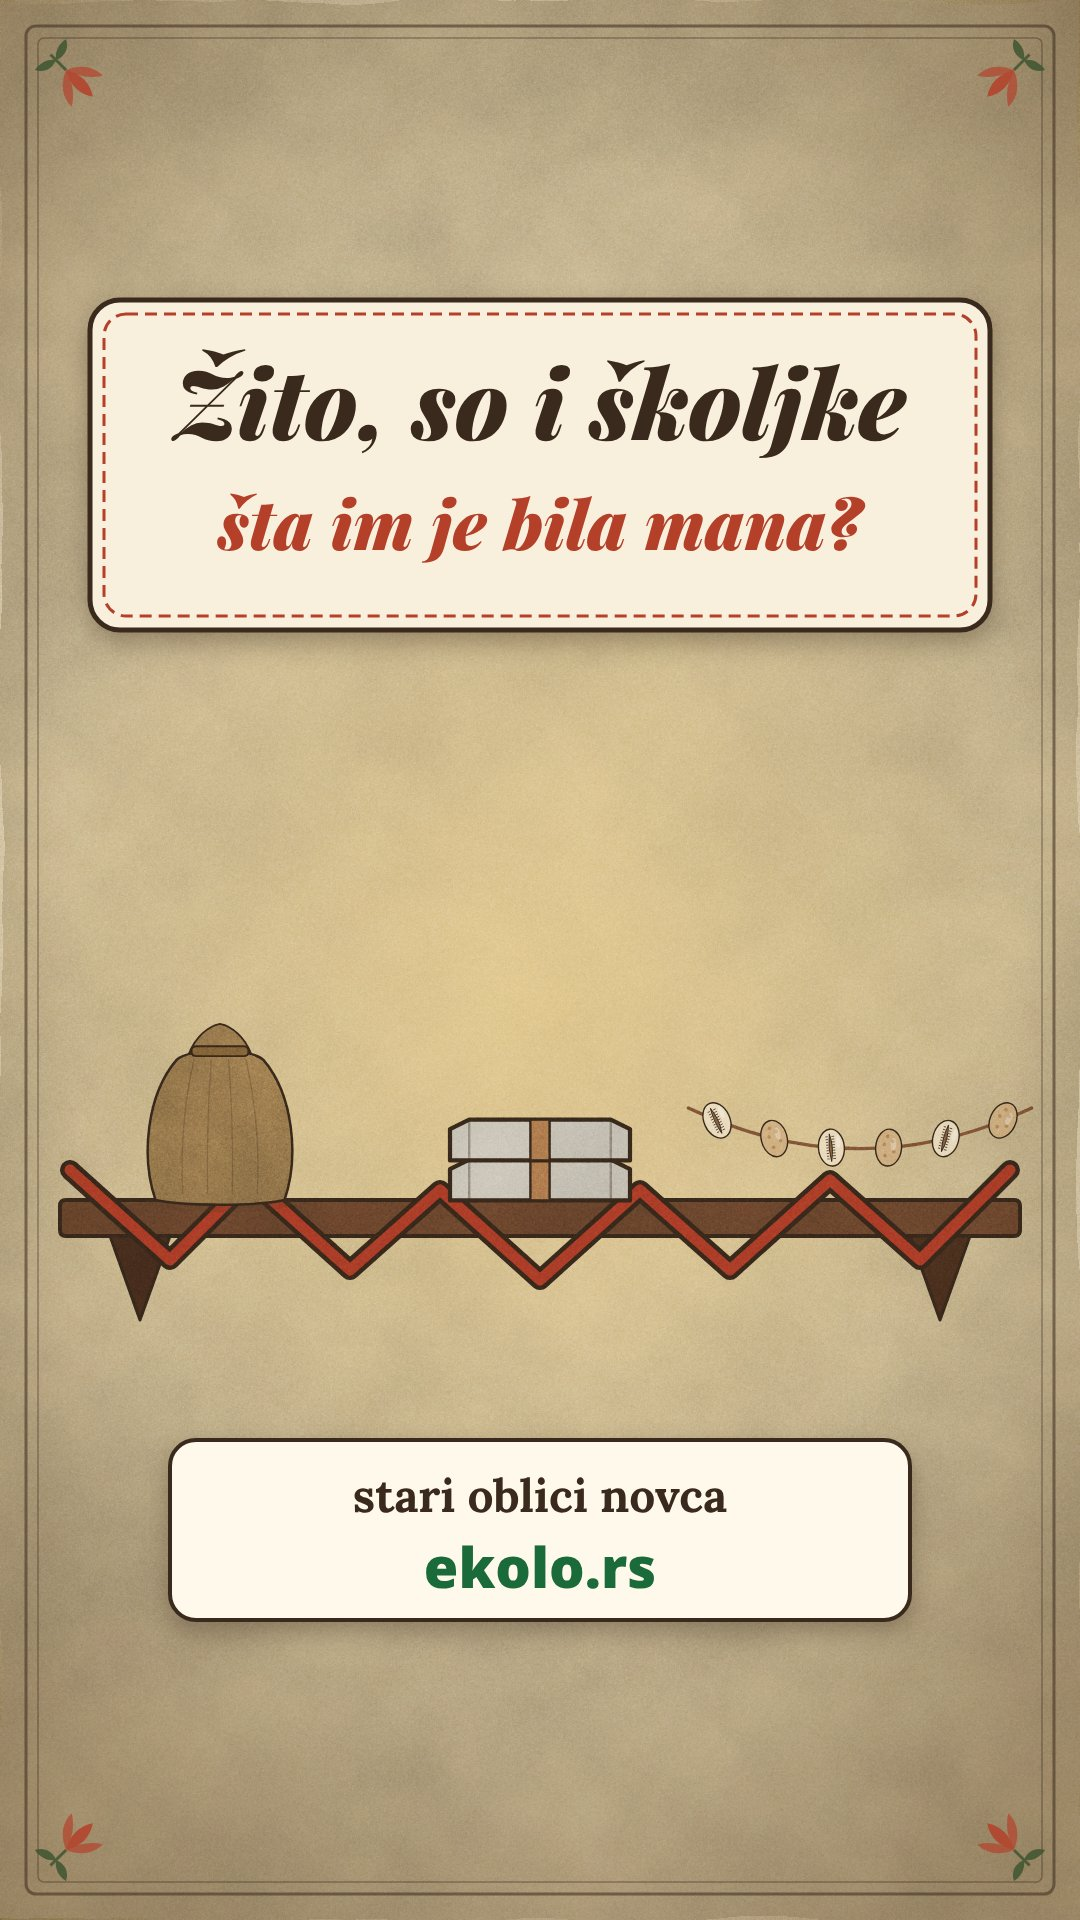
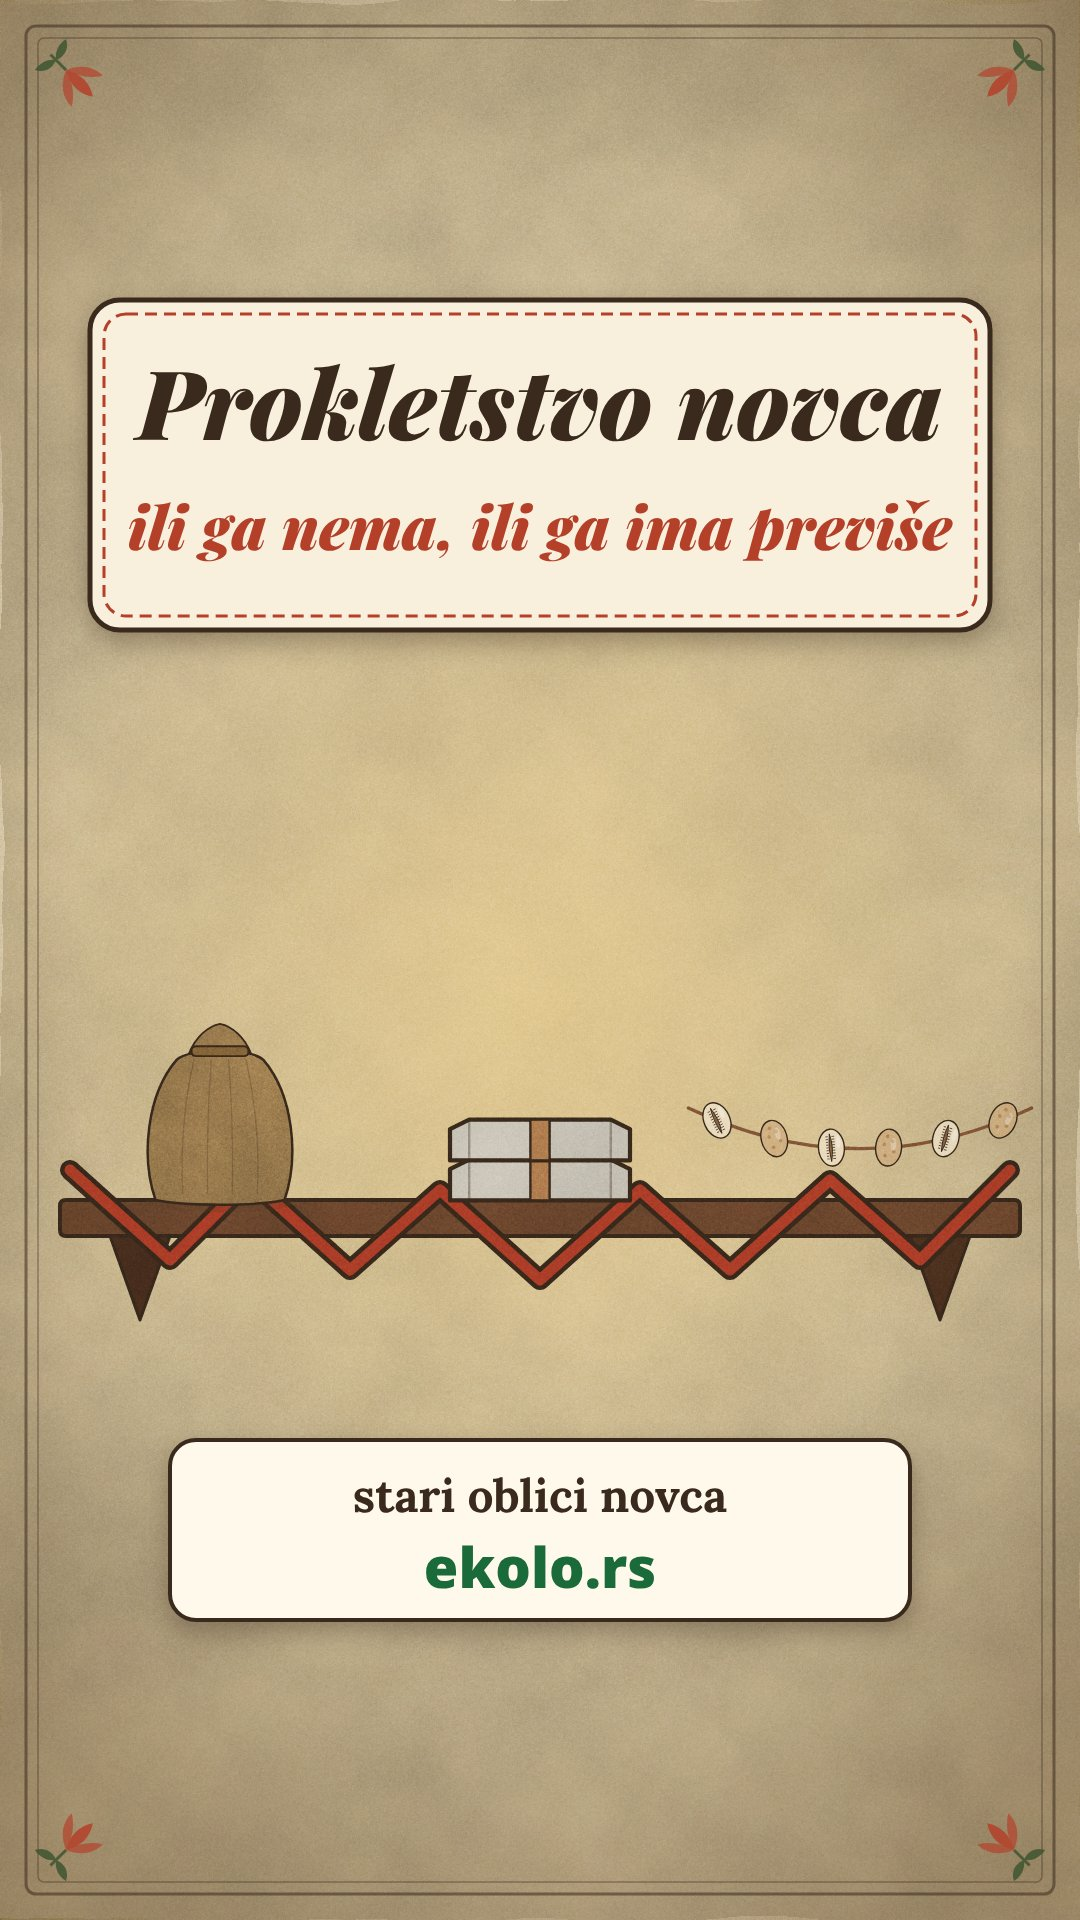
Video 16: naslovna „Prokletstvo novca — ili ga nema, ili ga ima previše“ (vlasnik)
Claude-Session: https://claude.ai/code/session_01T7CQTjZHe3ZYGPzvACPbHP

Changed region(s): [[0.1222, 0.1875, 0.8861, 0.3125]]

diff --git a/video/kolo-stari-novac/src/Naslovna.tsx b/video/kolo-stari-novac/src/Naslovna.tsx
@@ -1,4 +1,5 @@
-// Naslovna (cover) za mreže: polica sa žitom, solju i školjkama, ispod pukotina; krupno pitanje.
+// Naslovna (cover) za mreže: polica sa žitom, solju i školjkama, ispod pukotina; naslov „Prokletstvo novca“
+// (vlasnik, 06.10.2026: naslov o novcu i njegovoj mani, ne o žitu).
 // Sav tekst je u sredini (y 300–1620), jer Instagram mrežu seče na 4:5.
 import React from "react";
 import { AbsoluteFill, Img, staticFile } from "remotion";
@@ -30,10 +31,10 @@ export const Naslovna: React.FC = () => (
       <rect x={90} y={300} width={900} height={330} rx={30} fill={P.krem} stroke={P.mastilo} strokeWidth={5} />
       <rect x={104} y={314} width={872} height={302} rx={22} fill="none" stroke={P.vez} strokeWidth={3} strokeDasharray="12 7" />
       <text x={540} y={440} textAnchor="middle" fontFamily={NASLOV} fontStyle="italic" fontWeight={900} fontSize={96} fill={P.mastilo}>
-        Žito, so i školjke
+        Prokletstvo novca
       </text>
-      <text x={540} y={550} textAnchor="middle" fontFamily={NASLOV} fontStyle="italic" fontWeight={900} fontSize={68} fill={P.ajvar}>
-        šta im je bila mana?
+      <text x={540} y={550} textAnchor="middle" fontFamily={NASLOV} fontStyle="italic" fontWeight={900} fontSize={60} fill={P.ajvar}>
+        ili ga nema, ili ga ima previše
       </text>
       <rect x={170} y={1440} width={740} height={180} rx={26} fill={P.belo} stroke={P.mastilo} strokeWidth={4} />
       <text x={540} y={1512} textAnchor="middle" fontFamily={SERIF} fontWeight={700} fontSize={46} fill={P.mastilo}>
